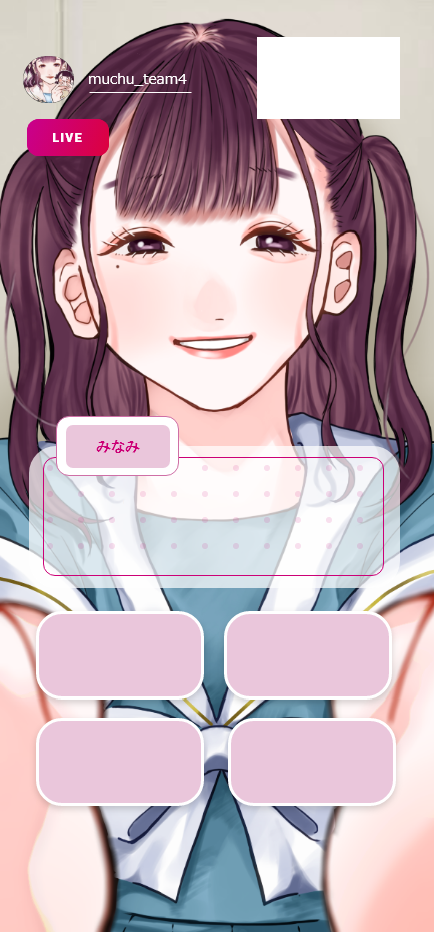
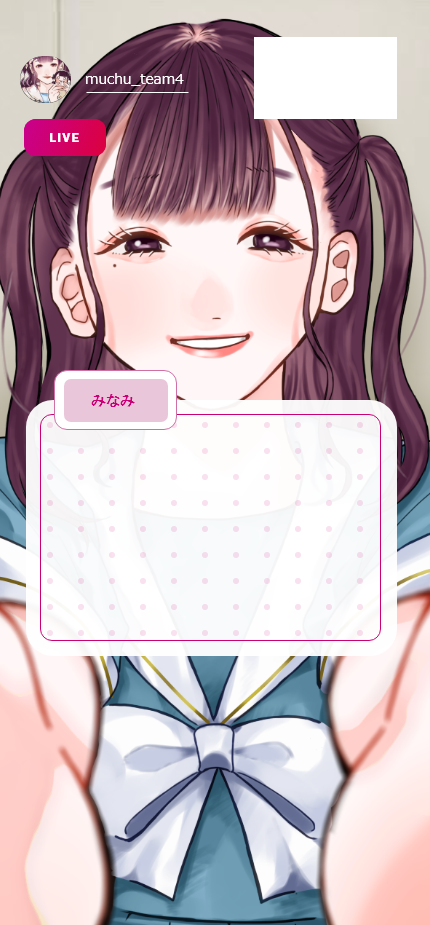
クイズ位置変更

diff --git a/quiz2.js b/quiz2.js
@@ -18,7 +18,7 @@
     var num = 0;
     var kekka_yuukou = 0;
     const question = [
-      ["プロジェクションマッピングの映像に出てくる、黄色い背景にふわふわと浮かび上がるシャボン玉は、働く前の女性が抱いている仕事やプライベートでの将来の何と何を表現していますか。", 
+      ["プロジェクションマッピングの映像に出てくる、黄色い背景にふわふわと浮かび上がるシャボン玉は、働く前の女性が抱いている仕事やプライベートでの将来の何を表現していますか。", 
        "青いクリスタルの上に出てくる、「鎖」は育児や介護などのライフイベントによる時間的な何を表現しているかな。", 
        "女性にしか起きないライフイベントはなにかな？"],//第1問(1班)
       ["衣装の袖口、襟元などLGBTQのマークに使われているよ。このマークはなんでしょう？", 

diff --git a/quiz2.css b/quiz2.css
@@ -1,6 +1,6 @@
 html {
     min-height: 100%;
-    background-image: url('img/quiz2.png');
+    background-image: url('img/quiz.png');
     background-repeat: no-repeat;
     background-position: center;
     background-size: contain;

diff --git a/omedetou1.css b/omedetou1.css
@@ -47,7 +47,7 @@ div#omedetou{
   text-align: center;
   border-radius: 5px;
   top: 400px;
-  left:35%;
+  left:38%;
   font-size: 30px;
   background: #eecae1;
   color: rgb(213, 43, 43);
